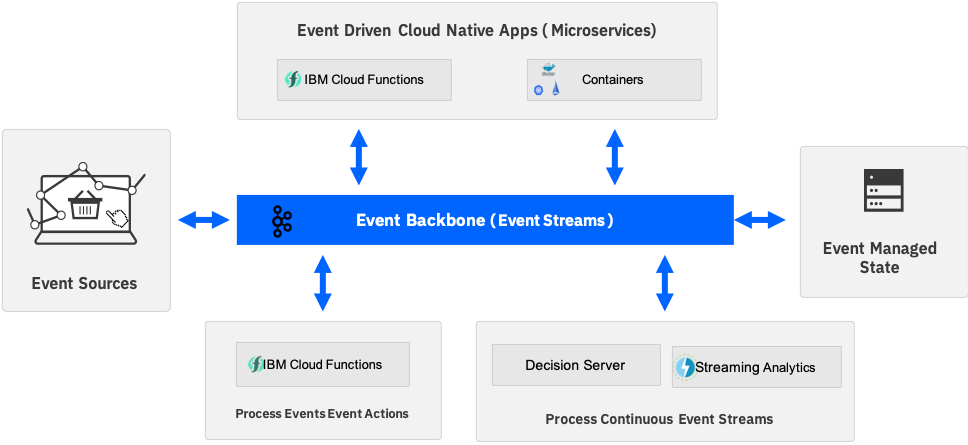
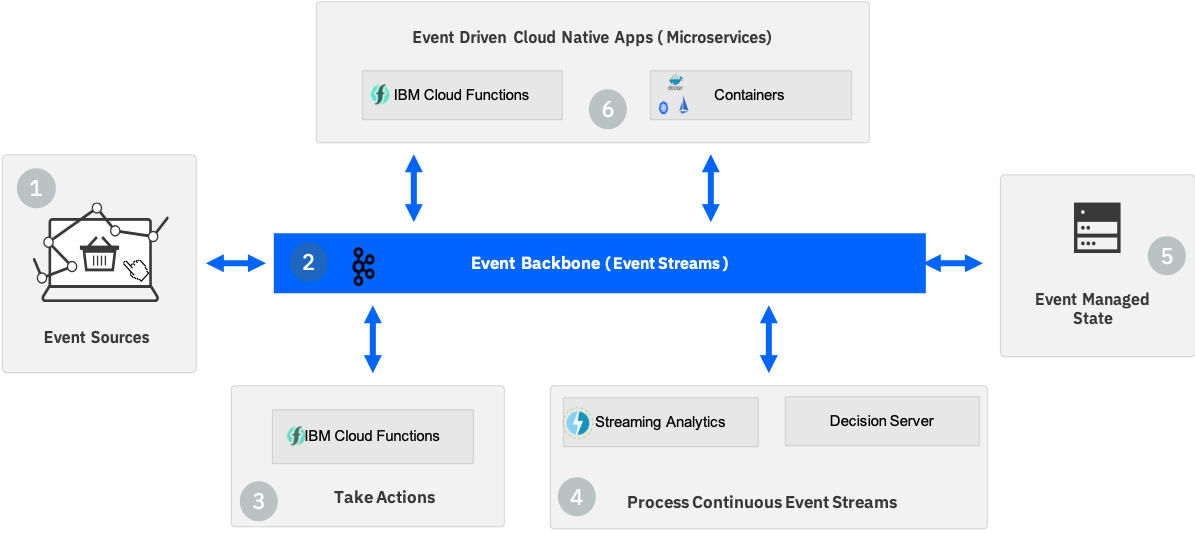
updated arch picture with numbers and sequencing

diff --git a/README.md b/README.md
@@ -47,22 +47,18 @@ We defined the starting point for a modern Cloud Native Event Driven Architectur
 * Processing event streams to derive real time insight/intelligence
 * Providing communication for event driven microservices
 
-We could visualize this architecture at the capability level as shown below:
+With an event backbone providing the connectivity between the capabilities, we can visualize the architecture as below.
 
 <img src="docs/hl-arch-refa.png" width="1024px">
 
-IBM Event Streams : provides a Kafka Event Backbone with
-Pub/Sub communication,  event log, event stream processing
+Where:
 
-IBM Cloud Functions : Provides a simplified programming model to take action on an event  with serverless  compute
-
-Streaming Analytics : Provides continuous ingest and analytical processing across multiple event streams
-
-Decision Server Insights: Provides the means to take action on events and event streams through business rules
-
-Event Driven Microservices applications running as serverless functions or containerized workloads are connected via pub/sub event communication through the event backbone.
-
-Connectec Event Stores provide additional persistance options for , optimised event sourcing and analytical use cases. 
+* IBM Event Streams : provides a Kafka Event Backbone withPub/Sub communication,  event log, and simple event stream processing
+* IBM Cloud Functions : Provides a simplified programming model to take action on an event  with serverless  compute
+* Streaming Analytics : Provides continuous ingest and analytical processing across multiple event streams
+* Decision Server Insights: Provides the means to take action on events and event streams through business rules
+* Event Driven Microservices applications run as serverless functions or containerized workloads are connected via pub/sub event communication through the event backbone.
+* Event Stores provide optimized persistance (data stores), for event sourcing, CQRS  and analytical use cases.
 
 In the following sections we will expand this component view and look at each area in detail. So lets start from  this expanded view of the architecture and explore each of the compenent parts in detail.
 
